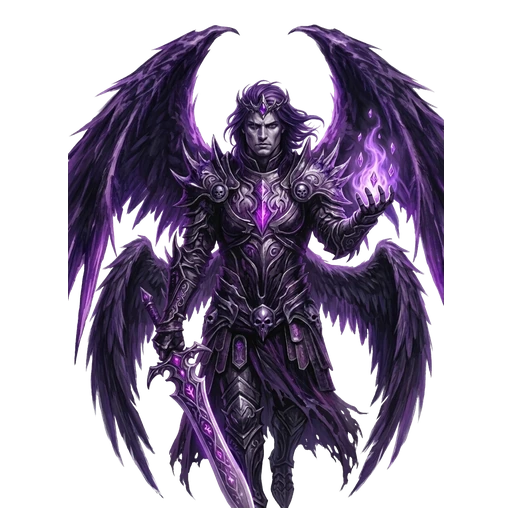
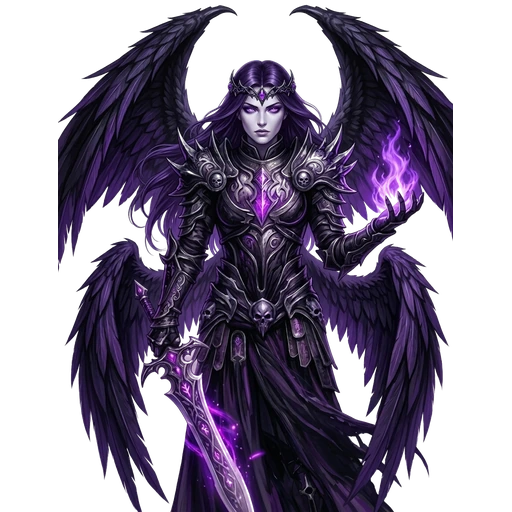
feat(cards): add 3 Uncommon Green sylvan creatures and update Purple Choir 2 & 3 to female bust portraits (v103)

diff --git a/src/data/cardArtPrompts.ts b/src/data/cardArtPrompts.ts
@@ -1094,9 +1094,12 @@ export const CARD_ART_PROMPTS: Record<string, string> = {
   "green_183_sachiel_arcanjo_quatro_asas_seiva": "2D Dark Fantasy painterly concept art illustration, Second-Choir Sylvan Archangel Sachiel with 4 luminous emerald leaf-and-branch wings (2 pairs), golden-twig and emerald crown over flowing green hair, mossy gold-filigree gothic plate armor, conjuring a glowing emerald Essence crystal above his left hand while holding an emerald runic greatsword in his right hand on pure white background.",
   "green_184_raphael_serafim_seis_asas_eden": "2D Dark Fantasy painterly concept art illustration, Supreme Eden Seraph Raphael with 6 majestic emerald-and-gold feathered leaf wings (3 pairs), tall golden-emerald crown, glowing emerald eyes, mossy gold-filigree gothic plate armor, gold-embroidered forest-green war-tabard, and emerald runic greatsword in the right hand on pure white background.",
   "purple_182_arauto_duas_asas_eclipse": "2D Dark Fantasy painterly concept art illustration, First-Choir Eclipse Warrior Angel with 2 high-arched obsidian-and-violet feathered wings, skull-inlaid obsidian and dark-silver gothic plate armor with glowing amethyst chest crystal, amethyst circlet over flowing dark-violet hair, glowing violet eyes, and abyssal purple-rune greatsword in the right hand on pure white background.",
-  "purple_183_sariel_arcanjo_quatro_asas_abismo": "2D Dark Fantasy painterly concept art illustration, Second-Choir Umbral Archangel Sariel with 4 obsidian-and-violet feathered wings (2 pairs), dark-silver and amethyst crown over flowing dark-violet hair, skull-inlaid obsidian gothic plate armor, conjuring a glowing violet soul-flame above his left hand while holding an abyssal purple-rune greatsword in his right hand on pure white background.",
-  "purple_184_samael_serafim_seis_asas_eclipse": "2D Dark Fantasy painterly concept art illustration, Supreme Eclipse Seraph Samael with 6 majestic obsidian-and-violet feathered wings (3 pairs), tall spiked black-iron and amethyst crown, glowing violet eyes, skull-inlaid obsidian gothic plate armor and skull-knee greaves, tattered dark-violet war-skirt, and abyssal purple-rune greatsword in the right hand on pure white background.",
+  "purple_183_sariel_arcanjo_quatro_asas_abismo": "2D Dark Fantasy painterly concept art illustration, Second-Choir Umbral Female Archangel Sariel bust portrait with 4 obsidian-and-violet feathered wings (2 pairs), dark-silver and amethyst crown over flowing dark-violet hair, fierce pale gothic female face with glowing violet eyes, skull-inlaid obsidian gothic plate armor, conjuring a glowing violet soul-flame above her left hand while holding an abyssal purple-rune greatsword in her right hand on pure white background.",
+  "purple_184_samael_serafim_seis_asas_eclipse": "2D Dark Fantasy painterly concept art illustration, Supreme Eclipse Female Seraph Samael bust portrait with 6 majestic obsidian-and-violet feathered wings (3 pairs), tall spiked black-iron and amethyst crown, fierce pale gothic female face with glowing violet eyes, skull-inlaid obsidian gothic plate armor, conjuring violet soul-fire in her left hand and wielding an abyssal purple-rune greatsword in her right hand on pure white background.",
   "neutral_182_arauto_duas_asas_alabastro": "2D Dark Fantasy classical painterly illustration, First-Choir Alabaster Warrior Angel with 2 high-arched silver-and-alabaster feathered wings, embossed silver-steel and antique-brass baroque breastplate, silver circlet over golden-brown hair, slate-grey cape and robes, and cruciform steel longsword in the right hand on pure white background.",
   "neutral_183_jophiel_arcanjo_quatro_asas_prata": "2D Dark Fantasy classical painterly illustration, Second-Choir Silver Archangel Jophiel with 4 silver-and-alabaster feathered wings (2 pairs), silver circlet, embossed silver-steel baroque plate armor and slate-grey robes, holding a silver armillary sphere in his raised left hand and a cruciform steel longsword in his right hand on pure white background.",
-  "neutral_184_metatron_serafim_seis_asas_prisma": "2D Dark Fantasy classical painterly illustration, Supreme Platinum Seraph Metatron with 6 majestic silver-and-alabaster feathered wings (3 pairs), imperial platinum crown, glowing silver eyes, embossed silver-and-platinum baroque breastplate, charcoal-slate robes, and cruciform steel longsword in the right hand on pure white background."
+  "neutral_184_metatron_serafim_seis_asas_prisma": "2D Dark Fantasy classical painterly illustration, Supreme Platinum Seraph Metatron with 6 majestic silver-and-alabaster feathered wings (3 pairs), imperial platinum crown, glowing silver eyes, embossed silver-and-platinum baroque breastplate, charcoal-slate robes, and cruciform steel longsword in the right hand on pure white background.",
+  "green_185_sentinela_galhada_musgo": "2D Dark Fantasy painterly concept art illustration, Sylvan Moss-Antler Knight Sentinel wearing a pointed emerald leaf-helm crowned with real branching woodland stag antlers with small leaves, heavy gnarled bark-and-moss armor and sweeping deep-green forest cloak, carrying a luminous pale-ivory rune greatsword diagonally across his front on pure white background.",
+  "green_186_guardiao_runico_carvalho": "2D Dark Fantasy painterly concept art illustration, Colossal Rune-Carved Oak Treant Guardian made of dark weathered oak bark and lush emerald moss with glowing golden druidic runes etched into its massive wooden forearm-shield and golden root-ribs across its chest, braided root-beard and glowing cyan-green eyes crowned by twisted oak branches, reaching forward with a three-clawed mossy wooden hand on pure white background.",
+  "green_187_errante_galhos_charco": "2D Dark Fantasy painterly concept art illustration, Sinister hunched Swamp-Deadwood Briar Horror made of twisted deadwood roots, hanging swamp moss, and thorny bare back-branches, hollow wooden skull-like face with two glowing cyan-blue eyes and jagged wooden maw, long gnarled branch arms ending in sharp twig-claws on pure white background."
 };

diff --git a/src/data/cards.ts b/src/data/cards.ts
@@ -33470,10 +33470,10 @@ const ALL_CARDS_PART_2: CardDefinition[] = [
   },
   {
     "id": "purple_183_sariel_arcanjo_quatro_asas_abismo",
-    "name": "Sariel, Arcanjo de Quatro Asas",
+    "name": "Sariel, Arcanja de Quatro Asas",
     "domain": "purple",
     "type": "creature",
-    "subtype": "Celestial • Arcanjo",
+    "subtype": "Celestial • Arcanja",
     "rarity": "rare",
     "cost": 6,
     "affinityReq": 3,
@@ -33662,6 +33662,102 @@ const ALL_CARDS_PART_2: CardDefinition[] = [
     "description": "Voo, Guardião, Escudo Divino, Atropelar, Armadura 3. Ao entrar, dá +1/+1, +1 de Armadura e Escudo Divino aos seus aliados e causa 4 de dano a 1 inimigo. Ao atacar, dá +1/+1 aos seus aliados.",
     "flavorText": "No ápice do Coro de Alabastro, seis asas de platina preservam a memória incorruptível da Era Zero.",
     "imagePath": "/assets/cards/neutral_184_metatron_serafim_seis_asas_prisma.webp"
+  },
+  {
+    "id": "green_185_sentinela_galhada_musgo",
+    "name": "Sentinela da Galhada de Musgo",
+    "domain": "green",
+    "type": "creature",
+    "subtype": "Planta • Cavaleiro",
+    "rarity": "uncommon",
+    "cost": 3,
+    "affinityReq": 1,
+    "atk": 3,
+    "armor": 1,
+    "hp": 4,
+    "regeneration": 1,
+    "preferredRow": "vanguard",
+    "keywords": ["Guardião"],
+    "ascension": {
+      "cost": 4,
+      "newName": "Campeão da Lâmina Silvestre",
+      "newAtk": 6,
+      "newArmor": 2,
+      "newMaxHp": 7,
+      "addedKeywords": ["Guardião", "Escudo Divino", "Atropelar"]
+    },
+    "effects": [
+      {
+        "trigger": "on_enter",
+        "type": "buff_target_ally",
+        "value": 1,
+        "secondaryValue": 2,
+        "description": "Ao entrar, concede +1/+2 a um aliado."
+      }
+    ],
+    "description": "Guardião, Armadura 1, Regeneração 1. Ao entrar, dá +1/+2 a um aliado. Ascensão (4): Campeão da Lâmina Silvestre (6/7, ARM 2, Escudo Divino, Atropelar).",
+    "flavorText": "Forjado de casca viva e musgo eterno, sua espada de luz guarda as trilhas onde nenhum machado ousa tocar.",
+    "imagePath": "/assets/cards/green_185_sentinela_galhada_musgo.webp"
+  },
+  {
+    "id": "green_186_guardiao_runico_carvalho",
+    "name": "Guardião Rúnico do Carvalho",
+    "domain": "green",
+    "type": "creature",
+    "subtype": "Planta • Ente",
+    "rarity": "uncommon",
+    "cost": 4,
+    "affinityReq": 2,
+    "atk": 4,
+    "armor": 1,
+    "hp": 6,
+    "regeneration": 1,
+    "preferredRow": "vanguard",
+    "keywords": ["Guardião", "Atropelar"],
+    "effects": [
+      {
+        "trigger": "on_enter",
+        "type": "grant_bonus_essence",
+        "value": 1,
+        "description": "Ao entrar, concede +1 de Essência neste turno."
+      },
+      {
+        "trigger": "on_enter",
+        "type": "heal_sovereign",
+        "value": 2,
+        "description": "Ao entrar, cura 2 de Vida do seu Soberano."
+      }
+    ],
+    "description": "Guardião, Atropelar, Armadura 1, Regeneração 1. Ao entrar, dá +1 de Essência neste turno e cura 2 de Vida do seu Soberano.",
+    "flavorText": "Runas douradas ardem sob o cerne milenar, canalizando a seiva das raízes profundas para o pacto druídico.",
+    "imagePath": "/assets/cards/green_186_guardiao_runico_carvalho.webp"
+  },
+  {
+    "id": "green_187_errante_galhos_charco",
+    "name": "Errante de Galhos do Charco",
+    "domain": "green",
+    "type": "creature",
+    "subtype": "Planta • Monstruosidade",
+    "rarity": "uncommon",
+    "cost": 3,
+    "affinityReq": 2,
+    "atk": 3,
+    "armor": 0,
+    "hp": 4,
+    "regeneration": 1,
+    "preferredRow": "rearguard",
+    "keywords": ["Alcance", "Toque Letal"],
+    "effects": [
+      {
+        "trigger": "on_enter",
+        "type": "freeze_enemy",
+        "value": 1,
+        "description": "Ao entrar, enraíza (Congela) 1 criatura inimiga."
+      }
+    ],
+    "description": "Alcance, Toque Letal, Regeneração 1. Ao entrar, enraíza (Congela) 1 criatura inimiga.",
+    "flavorText": "Nas águas paradas do pântano antigo, galhos retorcidos ganham olhos frios e garras que nunca soltam a presa.",
+    "imagePath": "/assets/cards/green_187_errante_galhos_charco.webp"
   }
 ];
 

diff --git a/src/components/CardView.tsx b/src/components/CardView.tsx
@@ -496,7 +496,7 @@ export const CardView: React.FC<CardViewProps> = ({
           <div className={`cpa-token-art aura-${displayCard.domain}`}>
             {!imgError && displayCard.imagePath ? (
               <img
-                src={`${displayCard.imagePath}?v=88`}
+                src={`${displayCard.imagePath}?v=89`}
                 alt={displayName}
                 className="cpa-token-img"
                 onError={() => setImgError(true)}
@@ -667,7 +667,7 @@ export const CardView: React.FC<CardViewProps> = ({
 
           {!imgError && displayCard.imagePath ? (
             <img
-              src={`${displayCard.imagePath}?v=88`}
+              src={`${displayCard.imagePath}?v=89`}
               alt={displayName}
               className="card-cutout-img"
               onError={() => setImgError(true)}

diff --git a/public/sw.js b/public/sw.js
@@ -1,4 +1,4 @@
-const CACHE_VERSION = 'chromatic-pact-v102';
+const CACHE_VERSION = 'chromatic-pact-v103';
 const ASSET_CACHE = `${CACHE_VERSION}-assets`;
 
 const PRECACHE_URLS = [
